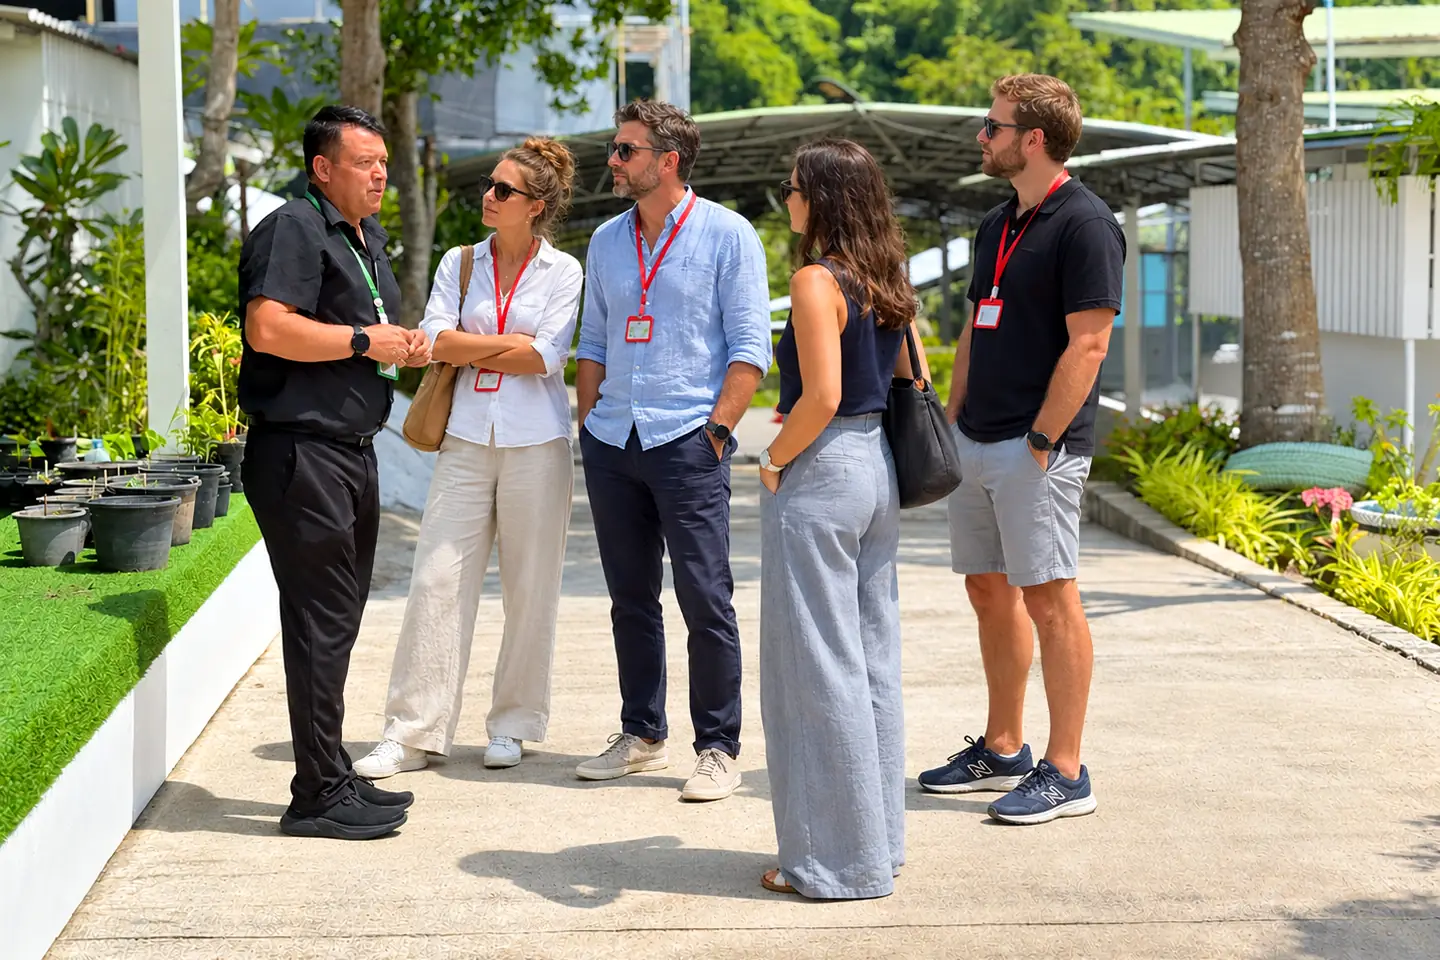
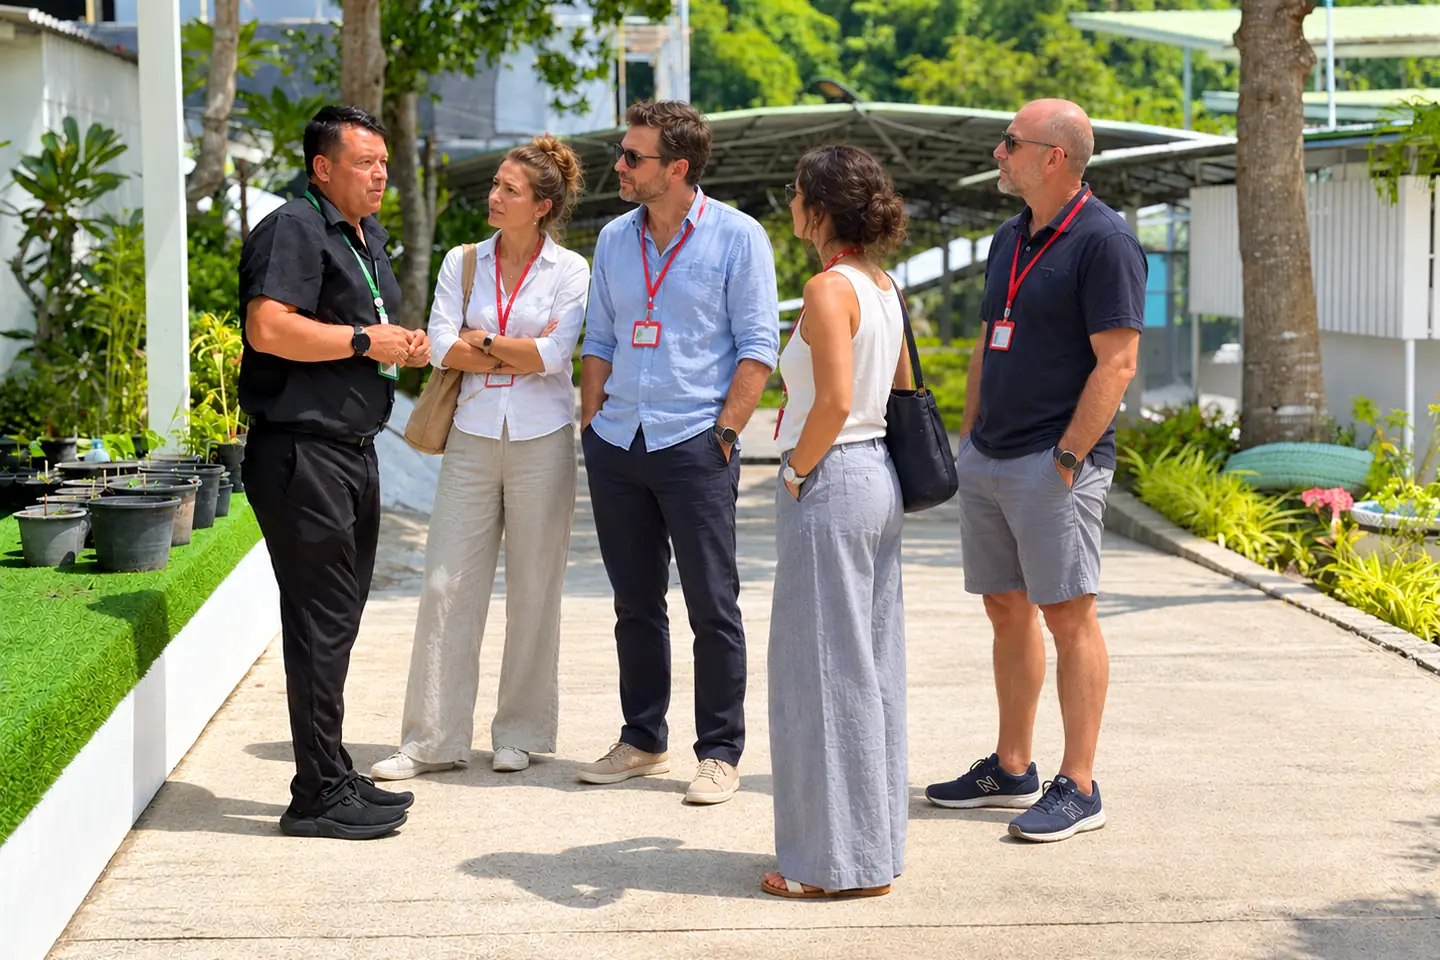
Use George's second school-tour photo for the Admissions visit photo
Claude-Session: https://claude.ai/code/session_01EHHvW5aFA4fp3iQjDXJgMg

diff --git a/PHOTO-SOURCES.md b/PHOTO-SOURCES.md
@@ -36,7 +36,7 @@ This register reflects the latest user-selected photos for Campus, Secondary, Pr
 | `our-school/environmentality/` / 2 ("Our values in action") | User-selected imagegen edit of `IMG_4188.HEIC`, swapped from the homepage on 11 October 2026 | `assets/images/school-2026/watering-together-*.webp`; 50% 50% |
 | `our-school/wellbeing/` / 1 | [Current school site](https://www.greenacre.ac.th/extra-curricular/wellbeing) | `assets/images/current-site/extra-curricular-wellbeing-02.webp` |
 | `our-school/wellbeing/` / 2 | `IMG_5038.PNG` | `assets/images/school-2026/outdoor-chess-*.webp`; 50% 72% |
-| `admissions/admissions-visits/` / 1 | George-supplied photo of a staff member showing visitors around (1448x1086, 17 Oct 2026; replaces the 11 Oct plant photo) | `assets/images/school-2026/admissions-visit-tour-*-v1.webp`; 3:2 crop (rows 90-1055, full width, keeps everyone head to toe), 50% 50%. Levels stretched (0.3%/99.7% luminance), saturation x1.12, no sharpening; WebP quality 70. Set 30/90/158 KB. Earlier plant photo files kept unused |
+| `admissions/admissions-visits/` / 1 | George-supplied photo of a staff member showing visitors around (1448x1086, second version supplied 17 Oct 2026; replaces the 11 Oct plant photo) | `assets/images/school-2026/admissions-visit-tour-*-v1.webp`; 3:2 crop (rows 90-1055, full width, keeps everyone head to toe), 50% 50%. Levels stretched (0.3%/99.7% luminance), saturation x1.12, no sharpening; WebP quality 70. Set 29/86/148 KB. Earlier plant photo files kept unused |
 | `parent-information/services/` / 1 | [Current school site](https://www.greenacre.ac.th/academics/environmentality) | `assets/images/current-site/academics-environmentality-02.webp` |
 | `our-school/head-of-school-welcome/` / 1 | `1742964487955 (1).jpg` | `assets/images/school-2026/head-dara-nagle-*.webp`; 50% 0% |
 | `work-with-us/` / 1 | `work with us.png` (sharper version supplied 11 October 2026) | `assets/images/recruitment/teacher-easel-*.webp`; 3:2 crop, 50% 50%. The earlier teacher-and-pupils photo remains on Curriculum |
